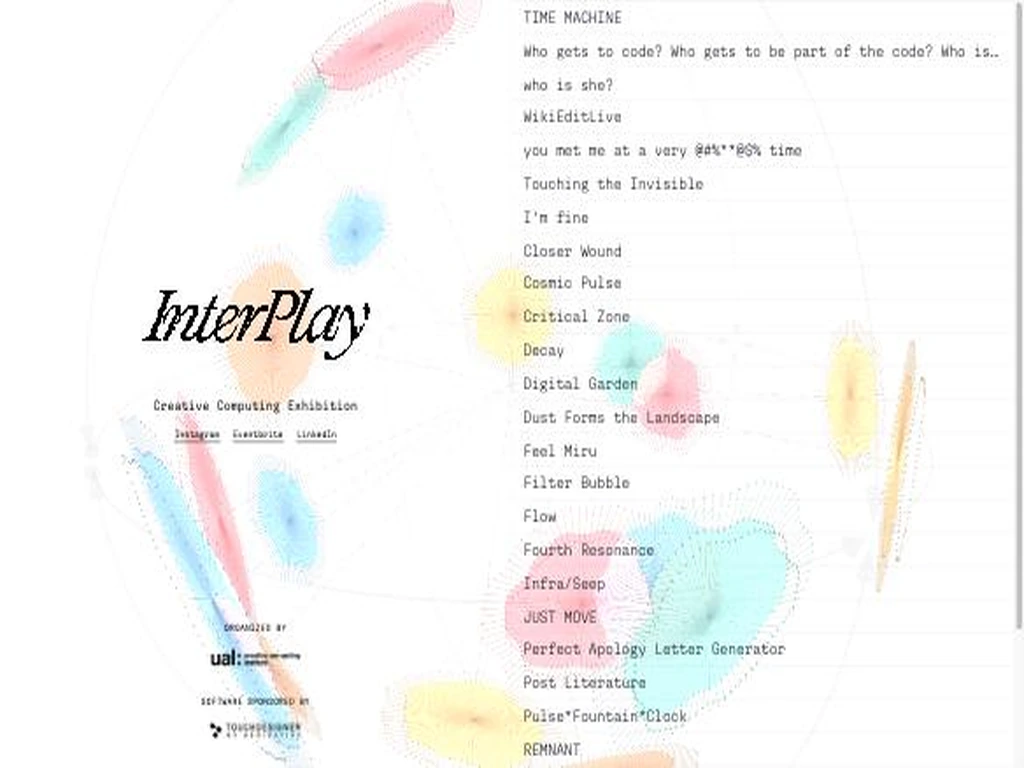
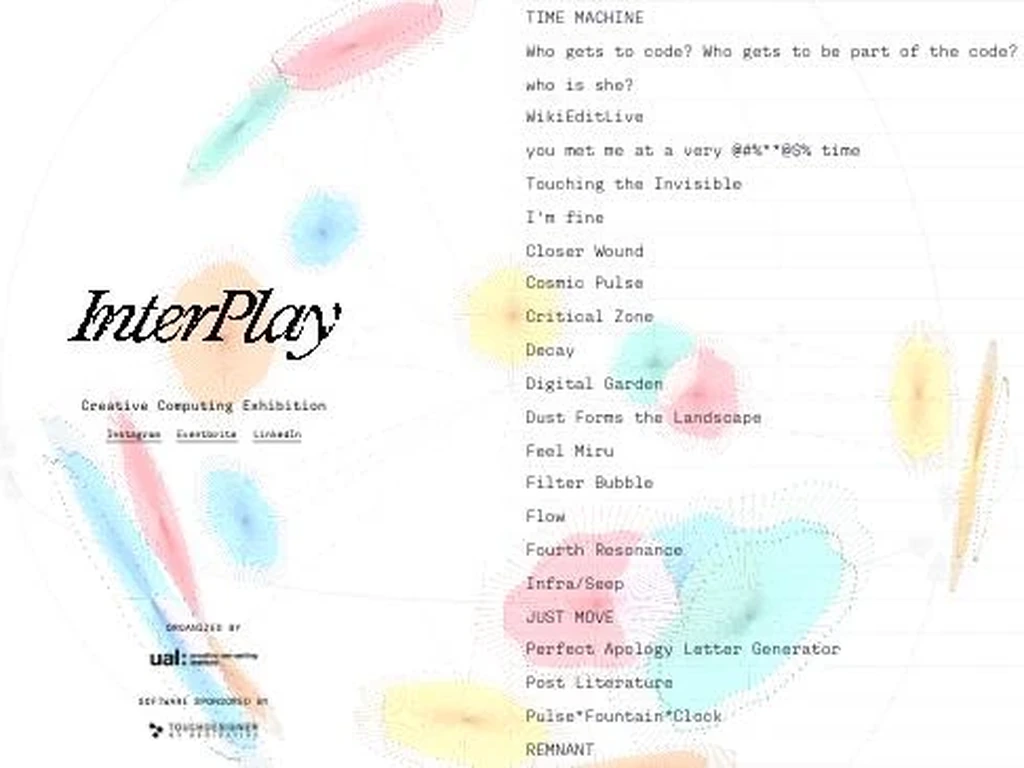
fix: 로고 제너레이터를 원본 알고리즘으로, 썸네일 비율 바로잡음
제너레이터: 앞서 넣은 건 산세리프 글자를 시드로 흔드는 가짜였다.
실제 generator.html + script.js를 읽고 그대로 옮겼다.
  - 시드 난수 frac(sin(seed++) * 10000)
  - 픽셀 강도 [8, 12, 16, 18] 박스 4개
  - 각 박스는 강도에 비례하는 속도(pixelSize * 0.2)로 좌우 교차 이동,
    영역을 벗어나면 반대편에서 재진입
  - 박스 안쪽만 그 강도로 픽셀화해 베이스 로고 위에 덮어 그림
  - 박스는 로고의 불투명 영역 안에서만 생성 (알파를 훑어 bounds 계산)
레포의 Logo/InterPlay.png를 900px webp(21KB)로 받아 쓴다.
설명 문구도 "글자를 변형한다"에서 실제 동작인 "영역을 픽셀화한다"로 고쳤다.

썸네일: 584x365 원본을 4:3으로 만들면서 높이 438로 잘라
원본보다 큰 영역을 요구해 아래가 빈 채로 채워졌다. 4:3보다 넓은
이미지는 가로를 잘라야 한다 (486x365 -> 1024x768).

diff --git a/components/projects/InterPlay.tsx b/components/projects/InterPlay.tsx
@@ -1,46 +1,159 @@
-import React, { useEffect } from 'react';
+import React, { useEffect, useRef, useState } from 'react';
 import { Link } from 'react-router-dom';
 import { Footer } from '../Footer';
 
 /**
- * 시드로 로고가 달라지는 것을 페이지 안에서 보여주는 작은 데모.
- * 실제 생성기(generator.html)의 픽셀 변형을 그대로 옮긴 것은 아니고,
- * "같은 글자가 시드마다 다르게 흐트러진다"는 규칙만 재현한다.
+ * 전시 사이트의 로고 생성기(generator.html + script.js)를 그대로 옮긴 것.
+ *
+ * 원본 규칙:
+ *  - 시드 난수는 frac(sin(seed++) * 10000)
+ *  - 픽셀 강도 [8, 12, 16, 18]짜리 박스 4개를 로고 영역 안에 생성
+ *  - 각 박스는 자기 강도에 비례하는 속도로 좌우로 흐르고, 화면 밖으로 나가면 반대편에서 다시 들어옴
+ *  - 박스 안쪽만 그 강도로 픽셀화해서 베이스 로고 위에 덮어 그림
  */
-const SeedLogo: React.FC = () => {
- const OFFICIAL_SEED = 72228804;
- const [seed, setSeed] = React.useState(OFFICIAL_SEED);
+const LOGO_SRC = '/interplay/logo.webp';
+const OFFICIAL_SEED = 72228804;
+const INTENSITIES = [8, 12, 16, 18];
 
- // 시드 하나로 결정되는 난수 (같은 시드 -> 항상 같은 모양)
- const rand = (n: number) => {
-  const x = Math.sin(seed * 9301 + n * 49297) * 233280;
-  return x - Math.floor(x);
- };
+type Box = { floatX: number; x: number; y: number; w: number; h: number; pixelSize: number; speed: number; direction: number };
 
- const letters = 'InterPlay'.split('');
+const LogoGenerator: React.FC = () => {
+ const canvasRef = useRef<HTMLCanvasElement>(null);
+ const imgRef = useRef<HTMLImageElement | null>(null);
+ const boxesRef = useRef<Box[]>([]);
+ const rafRef = useRef<number>(0);
+ const boundsRef = useRef<{ x: number; y: number; w: number; h: number } | null>(null);
+ const [seed, setSeed] = useState(OFFICIAL_SEED);
+ const [ready, setReady] = useState(false);
+
+ // 로고를 한 번 로드하고, 글자가 실제로 있는 영역(불투명 픽셀)을 재둔다.
+ // 원본도 이 영역 안에서만 박스를 만든다 — 투명 여백에 박스가 떠버리면 안 된다.
+ useEffect(() => {
+  const img = new Image();
+  img.src = LOGO_SRC;
+  img.onload = () => {
+   const c = document.createElement('canvas');
+   c.width = img.naturalWidth;
+   c.height = img.naturalHeight;
+   const cx = c.getContext('2d', { willReadFrequently: true });
+   if (cx) {
+    cx.drawImage(img, 0, 0);
+    const { data } = cx.getImageData(0, 0, c.width, c.height);
+    let minX = c.width, minY = c.height, maxX = 0, maxY = 0, found = false;
+    for (let y = 0; y < c.height; y += 2) {
+     for (let x = 0; x < c.width; x += 2) {
+      const i = (y * c.width + x) * 4;
+      // 알파가 있거나, 흰 배경 위의 어두운 글자
+      if (data[i + 3] > 20 && (data[i] < 200 || data[i + 1] < 200 || data[i + 2] < 200)) {
+       found = true;
+       if (x < minX) minX = x; if (x > maxX) maxX = x;
+       if (y < minY) minY = y; if (y > maxY) maxY = y;
+      }
+     }
+    }
+    boundsRef.current = found
+     ? { x: minX, y: minY, w: maxX - minX, h: maxY - minY }
+     : { x: 0, y: 0, w: c.width, h: c.height };
+   }
+   imgRef.current = img;
+   setReady(true);
+  };
+ }, []);
+
+ // 시드가 바뀌면 박스를 다시 만든다
+ useEffect(() => {
+  if (!ready || !imgRef.current) return;
+  const img = imgRef.current;
+  let state = seed;
+  const rnd = () => { const x = Math.sin(state++) * 10000; return x - Math.floor(x); };
+
+  const b = boundsRef.current ?? { x: 0, y: 0, w: img.naturalWidth, h: img.naturalHeight };
+  const { w: maxW, h: maxH, x: startX, y: startY } = b;
+
+  boxesRef.current = INTENSITIES.map((pSize, i) => {
+   const wRaw = rnd() * (maxW * 0.4) + maxW * 0.3;
+   const hRaw = rnd() * (maxH * 0.3) + maxH * 0.2;
+   const xRaw = startX + rnd() * Math.max(0, maxW - wRaw);
+   const yRaw = startY + rnd() * Math.max(0, maxH - hRaw);
+   return {
+    floatX: xRaw,
+    x: Math.round(xRaw / pSize) * pSize,
+    y: Math.round(yRaw / pSize) * pSize,
+    w: Math.max(pSize, Math.round(wRaw / pSize) * pSize),
+    h: Math.max(pSize, Math.round(hRaw / pSize) * pSize),
+    pixelSize: pSize,
+    speed: pSize * 0.2,
+    direction: i % 2 === 1 ? 1 : -1,
+   };
+  });
+ }, [seed, ready]);
+
+ // 애니메이션 + 렌더
+ useEffect(() => {
+  if (!ready || !imgRef.current) return;
+  const img = imgRef.current;
+  const canvas = canvasRef.current;
+  if (!canvas) return;
+  const ctx = canvas.getContext('2d', { willReadFrequently: true });
+  if (!ctx) return;
+
+  canvas.width = img.naturalWidth;
+  canvas.height = img.naturalHeight;
+
+  const tmp = document.createElement('canvas');
+  const tctx = tmp.getContext('2d');
+  if (!tctx) return;
+
+  const draw = () => {
+   const boxes = boxesRef.current;
+   ctx.clearRect(0, 0, canvas.width, canvas.height);
+   ctx.drawImage(img, 0, 0, canvas.width, canvas.height);
+   ctx.imageSmoothingEnabled = false;
+
+   for (const box of boxes) {
+    box.floatX += box.speed * box.direction;
+    const b = boundsRef.current ?? { x: 0, w: canvas.width };
+    if (box.direction === -1) {
+     if (box.floatX + box.w < b.x - 30) box.floatX = b.x + b.w + 30;
+    } else if (box.floatX > b.x + b.w + 30) {
+     box.floatX = b.x - box.w - 50;
+    }
+    box.x = Math.round(box.floatX / box.pixelSize) * box.pixelSize;
+
+    // 전체를 축소했다 다시 키워 계단이 생기게 하고, 박스 영역만 잘라 덮는다
+    const p = box.pixelSize;
+    const smallW = Math.max(1, Math.ceil(canvas.width / p));
+    const smallH = Math.max(1, Math.ceil(canvas.height / p));
+    tmp.width = smallW;
+    tmp.height = smallH;
+    tctx.imageSmoothingEnabled = false;
+    tctx.clearRect(0, 0, smallW, smallH);
+    tctx.drawImage(img, 0, 0, smallW, smallH);
+
+    ctx.save();
+    ctx.beginPath();
+    ctx.rect(box.x, box.y, box.w, box.h);
+    ctx.clip();
+    ctx.clearRect(box.x, box.y, box.w, box.h);
+    ctx.drawImage(tmp, 0, 0, smallW, smallH, 0, 0, smallW * p, smallH * p);
+    ctx.restore();
+   }
+   rafRef.current = requestAnimationFrame(draw);
+  };
+
+  rafRef.current = requestAnimationFrame(draw);
+  return () => cancelAnimationFrame(rafRef.current);
+ }, [ready]);
 
  return (
   <div className="w-full">
-   <div className="border border-gray-100 bg-white px-6 py-14 flex items-center justify-center overflow-hidden">
-    <div className="flex" aria-label="InterPlay">
-     {letters.map((ch, i) => (
-      <span
-       key={i}
-       className="text-4xl md:text-5xl leading-none transition-transform duration-500 ease-out"
-       style={{
-        fontStyle: 'italic',
-        transform: `translateY(${(rand(i) - 0.5) * 22}px) rotate(${(rand(i + 20) - 0.5) * 24}deg) scaleY(${0.8 + rand(i + 40) * 0.5})`,
-       }}
-      >
-       {ch}
-      </span>
-     ))}
-    </div>
+   <div className="border border-gray-100 bg-white p-4 flex items-center justify-center">
+    <canvas ref={canvasRef} className="w-full h-auto" aria-label="InterPlay logo, pixel transformation" />
    </div>
 
    <div className="flex items-center gap-4 mt-6 flex-wrap">
     <button
-     onClick={() => setSeed(Math.floor(Math.random() * 100000000))}
+     onClick={() => setSeed(Math.floor(Math.random() * 89999999) + 10000000)}
      className="subtext border border-gray-400 text-gray-500 hover:text-black hover:border-black transition-colors rounded-full px-4 py-1"
     >
      Generate
@@ -51,9 +164,7 @@ const SeedLogo: React.FC = () => {
     >
      Official seed
     </button>
-    <span className="subtext text-gray-400 tabular-nums">
-     seed : {seed}
-    </span>
+    <span className="subtext text-gray-400 tabular-nums">seed : {seed}</span>
    </div>
   </div>
  );
@@ -138,14 +249,16 @@ export const InterPlay: React.FC = () => {
     <div className="grid grid-cols-1 dt:grid-cols-2 gap-4 lg:gap-24 items-top mb-4">
      <div>
       <h2 className="text-3xl md:text-4xl font-normal leading-tight text-black mb-8">
-       One Logo, Many Seeds
+       One Mark, Many Seeds
       </h2>
       <div className="project-description space-y-6">
        <p>
-        The logotype is generated, not drawn. A numeric seed decides how each letter is
-        displaced and distorted, so the same word yields an endless family of marks while
-        staying recognisable. The exhibition ships with one canonical variant — seed
-        72228804 — and every committee member could generate their own.
+        The logotype is drawn once and then disturbed. A numeric seed places four bands
+        across the mark, each pixelating the artwork underneath at its own resolution —
+        8, 12, 16 and 18 pixels — and each drifting sideways at a speed set by its own
+        coarseness. The letterforms stay legible while the surface keeps breaking and
+        reforming. The exhibition ships with one canonical variant, seed 72228804, and
+        every committee member could generate their own.
        </p>
        <p>
         This turned the identity into something the team played with rather than policed.
@@ -155,7 +268,7 @@ export const InterPlay: React.FC = () => {
       </div>
      </div>
      <div className="w-full h-full">
-      <SeedLogo />
+      <LogoGenerator />
      </div>
     </div>
    </section>
